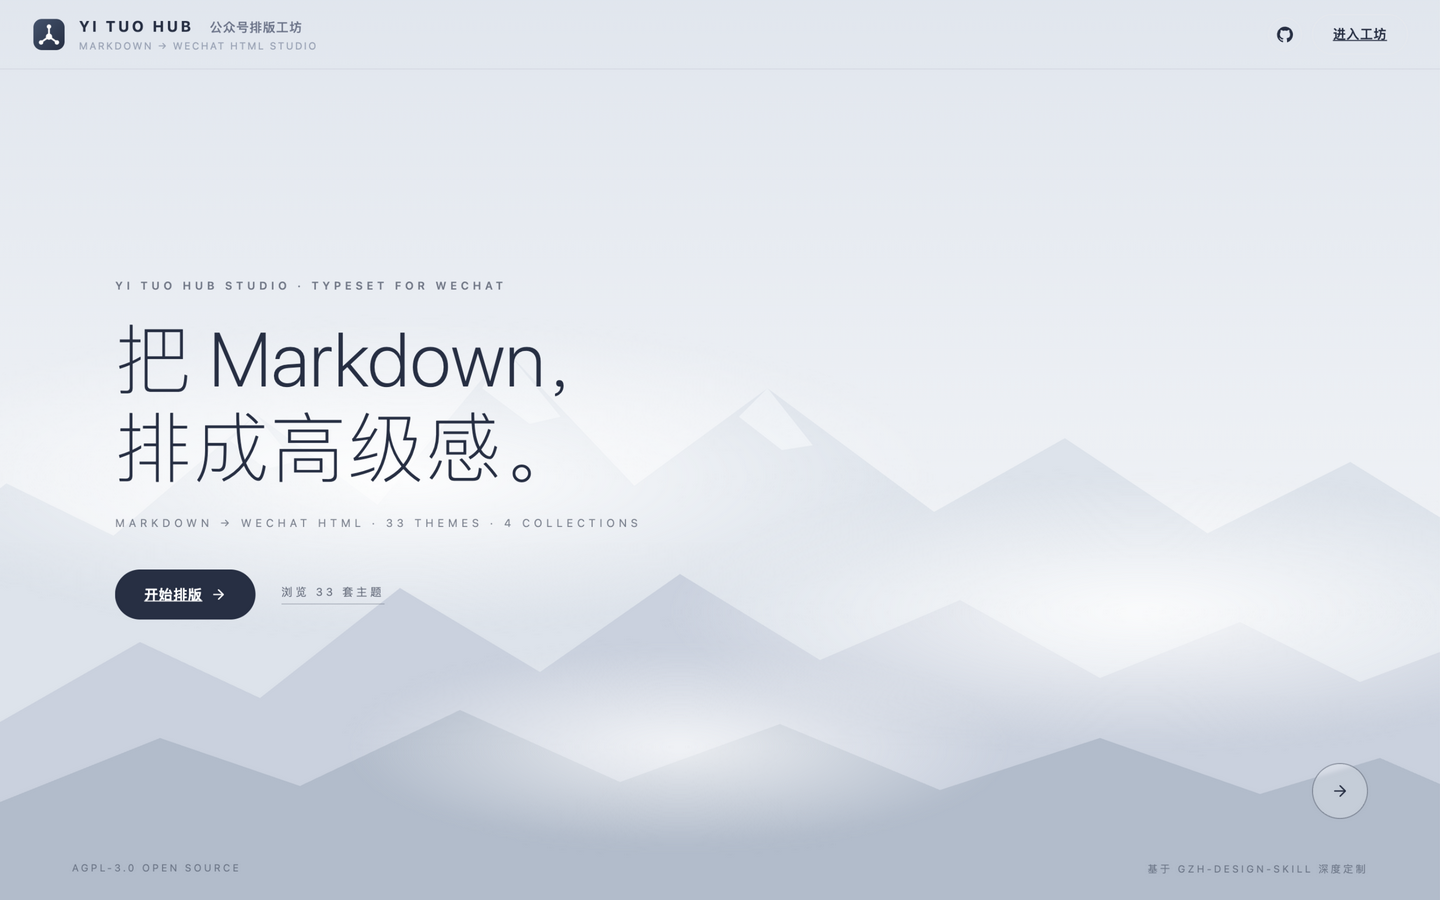
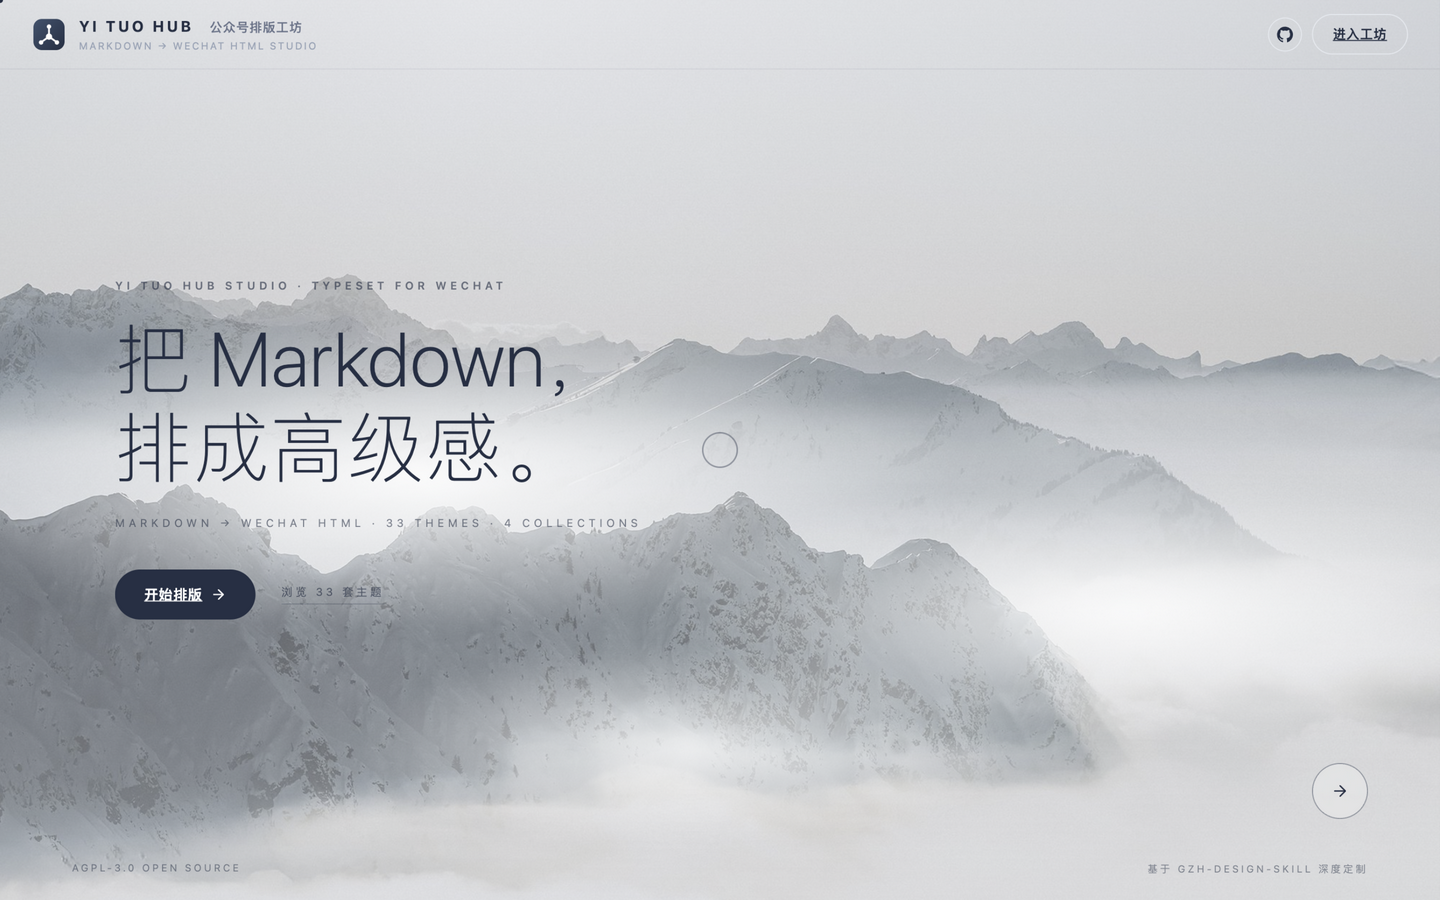
首页雪山照片化（Pexels 免版权图）+ 鼠标跟随动效；README 预览图更新

diff --git a/index.html b/index.html
@@ -46,34 +46,14 @@
 </header>
 
 <main class="scene">
-  <div class="layer" data-depth="0.35">
-    <div class="mtn mtn-far">
-      <svg viewBox="0 0 1440 560" preserveAspectRatio="xMidYMax slice" aria-hidden="true">
-        <path fill="#D9E3EC" d="M0 300 L120 208 L210 252 L330 150 L432 226 L540 96 L648 210 L760 128 L900 232 L1010 170 L1130 250 L1250 190 L1360 258 L1440 220 L1440 560 L0 560 Z"/>
-        <path fill="#E9F0F5" d="M540 96 L586 152 L560 158 L520 128 Z M330 150 L362 190 L338 196 L308 172 Z M760 128 L798 176 L772 180 L736 152 Z"/>
-      </svg>
-    </div>
+  <div class="layer" data-depth="0.3">
+    <div class="hero-photo" role="img" aria-label="云海之上的层叠雪山"></div>
   </div>
+  <div class="hero-veil"></div>
 
   <div class="fog fog-a"></div>
 
-  <div class="layer" data-depth="0.65">
-    <div class="mtn mtn-mid">
-      <svg viewBox="0 0 1440 560" preserveAspectRatio="xMidYMax slice" aria-hidden="true">
-        <path fill="#C3D2DF" d="M0 380 L140 300 L260 356 L400 246 L540 330 L680 232 L820 318 L960 258 L1100 336 L1240 280 L1360 340 L1440 310 L1440 560 L0 560 Z"/>
-      </svg>
-    </div>
-  </div>
-
   <div class="fog fog-b"></div>
-
-  <div class="layer" data-depth="1">
-    <div class="mtn mtn-near">
-      <svg viewBox="0 0 1440 560" preserveAspectRatio="xMidYMax slice" aria-hidden="true">
-        <path fill="#A9BDCD" d="M0 460 L160 396 L300 444 L460 368 L620 440 L780 382 L940 448 L1100 396 L1260 452 L1380 416 L1440 442 L1440 560 L0 560 Z"/>
-      </svg>
-    </div>
-  </div>
 
   <div class="fog fog-c"></div>
 
@@ -112,6 +92,25 @@
       el.style.transform = 'translate3d(' + (mx * d * 42).toFixed(1) + 'px,' + (my * d * 16).toFixed(1) + 'px,0)';
     });
   }, { passive: true });
+
+  /* 鼠标动效：小点即时跟随 + 圆环延迟追随，悬停交互元素放大 */
+  if (matchMedia('(pointer:fine)').matches && !matchMedia('(prefers-reduced-motion: reduce)').matches) {
+    var dot = document.createElement('div'); dot.className = 'cursor-dot';
+    var ring = document.createElement('div'); ring.className = 'cursor-ring';
+    document.body.appendChild(dot); document.body.appendChild(ring);
+    var tx = innerWidth / 2, ty = innerHeight / 2, rx = tx, ry = ty;
+    addEventListener('mousemove', function (e) {
+      tx = e.clientX; ty = e.clientY;
+      dot.style.left = tx + 'px'; dot.style.top = ty + 'px';
+      var t = e.target;
+      ring.classList.toggle('hover', !!(t.closest && t.closest('a, button')));
+    }, { passive: true });
+    (function loop() {
+      rx += (tx - rx) * 0.16; ry += (ty - ry) * 0.16;
+      ring.style.left = rx + 'px'; ring.style.top = ry + 'px';
+      requestAnimationFrame(loop);
+    })();
+  }
 })();
 </script>
 </body>

diff --git a/landing.css b/landing.css
@@ -18,11 +18,51 @@
 
 .layer { position: absolute; inset: 0; will-change: transform; transition: transform 0.9s cubic-bezier(0.16, 1, 0.3, 1); pointer-events: none; }
 
-.mtn { position: absolute; left: 0; right: 0; bottom: -2px; width: 100%; height: 68vh; }
-.mtn svg { display: block; width: 100%; height: 100%; }
-.mtn-far  { height: 74vh; }
-.mtn-mid  { height: 60vh; }
-.mtn-near { height: 44vh; }
+/* 照片级雪山：Pexels 免版权图（assets/mountains-hero.jpg），微放大留出视差余量 */
+.hero-photo {
+  position: absolute;
+  inset: -4%;
+  background: url('assets/mountains-hero.jpg') center 42% / cover no-repeat;
+}
+.hero-veil {
+  position: absolute;
+  inset: 0;
+  background: linear-gradient(180deg, rgba(244,246,248,.5) 0%, rgba(244,246,248,.08) 42%, rgba(244,246,248,.3) 100%);
+}
+
+/* 鼠标动效：小点即时 + 圆环延迟追随 */
+body.landing, body.landing a, body.landing button { cursor: none; }
+.cursor-dot {
+  position: fixed;
+  z-index: 200;
+  width: 6px;
+  height: 6px;
+  border-radius: 50%;
+  background: var(--dark);
+  pointer-events: none;
+  transform: translate(-50%, -50%);
+}
+.cursor-ring {
+  position: fixed;
+  z-index: 200;
+  width: 36px;
+  height: 36px;
+  border-radius: 50%;
+  border: 1.5px solid rgba(29, 48, 69, 0.4);
+  pointer-events: none;
+  transform: translate(-50%, -50%);
+  transition: width 0.25s var(--ease), height 0.25s var(--ease), border-color 0.25s, background 0.25s;
+}
+.cursor-ring.hover {
+  width: 56px;
+  height: 56px;
+  border-color: rgba(29, 48, 69, 0.75);
+  background: rgba(255, 255, 255, 0.14);
+}
+@media (pointer: coarse) {
+  body.landing, body.landing a, body.landing button { cursor: auto; }
+  .cursor-dot, .cursor-ring { display: none; }
+}
 
 @keyframes drift {
   from { transform: translateX(-3.5%); }

diff --git a/README.md b/README.md
@@ -35,7 +35,7 @@
 
 <table>
 <tr>
-<td width="50%" align="center"><img src="assets/landing-preview.png" width="100%"><br><sub><b>电影感首页 · 雪山云雾 + 鼠标视差</b></sub></td>
+<td width="50%" align="center"><img src="assets/landing-preview.png" width="100%"><br><sub><b>电影感首页 · 照片级雪山 + 云雾漂移 + 鼠标视差</b></sub></td>
 <td width="50%" align="center"><img src="assets/studio-preview.png" width="100%"><br><sub><b>排版工坊 · 粘贴即所得，右侧实时预览</b></sub></td>
 </tr>
 </table>
@@ -129,6 +129,7 @@ docker build -t yituo-hub . && docker run -d -p 80:80 yituo-hub
 
 - [gzh-design-skill](https://github.com/isjiamu/gzh-design-skill)（AGPL-3.0，甲木 × 摸鱼小李）——本项目的排版工作流、平台红线标准与「经典复刻」组主题的配色来源
 - [wechat-motion-layout-studio](https://github.com/lanmengSakura/wechat-motion-layout-studio)（蓝梦）——动效组件库与「动效系列」主题的风格来源
+- 首页雪山摄影来自 [Pexels](https://www.pexels.com/)（免费商用许可）
 
 ## 📄 License
 
